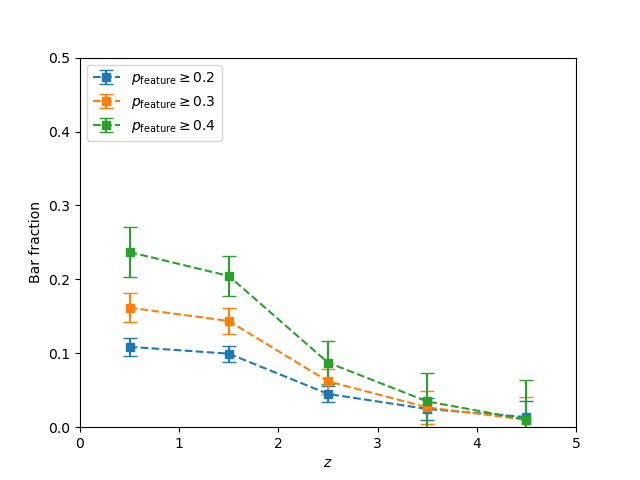
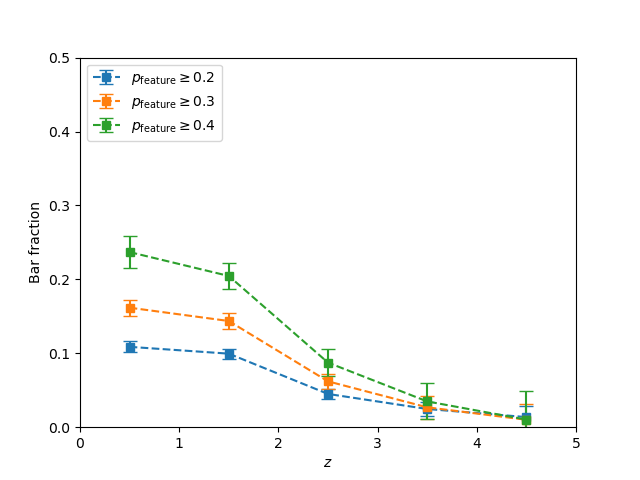
update

diff --git a/bar_estimate/binned_bar_fraction.py b/bar_estimate/binned_bar_fraction.py
@@ -11,7 +11,7 @@ def str2array(string):
     array = np.array([int(num) for num in numbers_str])
     return array
 
-FILTER = 200
+FILTER = 444
 
 N_BINS_z = 5
 bins_z = [0, 1, 2, 3, 4, 5]
@@ -60,7 +60,7 @@ for k in range(3):
                 break
 
 bar_fraction = num_barred_disks / num_disks
-err = np.sqrt(np.sum(bar_fraction*(1-bar_fraction)/num_disks, axis=2)/N_RUNS + np.var(bar_fraction, axis=2))
+err = np.sqrt(np.sum(bar_fraction*(1-bar_fraction)/num_disks, axis=2)/N_RUNS**2 + np.var(bar_fraction, axis=2))
 
 bin_centers = [(bins_z[i] + bins_z[i+1]) / 2 for i in range(N_BINS_z)]
 
@@ -102,7 +102,7 @@ for k in range(3):
                 break
 
 bar_fraction = num_barred_disks / num_disks
-err = np.sqrt(np.sum(bar_fraction*(1-bar_fraction)/num_disks, axis=2)/N_RUNS + np.var(bar_fraction, axis=2))
+err = np.sqrt(np.sum(bar_fraction*(1-bar_fraction)/num_disks, axis=2)/N_RUNS**2 + np.var(bar_fraction, axis=2))
 
 bin_centers = [(bins_z[i] + bins_z[i+1]) / 2 for i in range(N_BINS_z)]
 
@@ -144,7 +144,7 @@ for k in range(3):
                 break
 
 bar_fraction = num_barred_disks / num_disks
-err = np.sqrt(np.sum(bar_fraction*(1-bar_fraction)/num_disks, axis=2)/N_RUNS + np.var(bar_fraction, axis=2))
+err = np.sqrt(np.sum(bar_fraction*(1-bar_fraction)/num_disks, axis=2)/N_RUNS**2 + np.var(bar_fraction, axis=2))
 
 bin_centers = [(bins_M[i] + bins_M[i+1]) / 2 for i in range(N_BINS_M)]
 
@@ -184,7 +184,7 @@ for k in range(3):
                 break
 
 bar_fraction = num_barred_disks / num_disks
-err = np.sqrt(np.sum(bar_fraction*(1-bar_fraction)/num_disks, axis=2)/N_RUNS + np.var(bar_fraction, axis=2))
+err = np.sqrt(np.sum(bar_fraction*(1-bar_fraction)/num_disks, axis=2)/N_RUNS**2 + np.var(bar_fraction, axis=2))
 
 bin_centers = [(bins_M[i] + bins_M[i+1]) / 2 for i in range(N_BINS_M)]
 

diff --git a/bar_estimate/calibrate_bar_fraction.py b/bar_estimate/calibrate_bar_fraction.py
@@ -58,7 +58,7 @@ for k in range(4):
                 break
 
 bar_fraction = num_barred_disks / num_disks
-err = np.sqrt(np.sum(bar_fraction*(1-bar_fraction)/num_disks, axis=2)/N_RUNS + np.var(bar_fraction, axis=2))
+err = np.sqrt(np.sum(bar_fraction*(1-bar_fraction)/num_disks, axis=2)/N_RUNS**2 + np.var(bar_fraction, axis=2))
 
 bin_centers = [(bins_z[i] + bins_z[i+1]) / 2 for i in range(N_BINS_z)]
 
@@ -110,7 +110,7 @@ for k in range(4):
                 break
 
 bar_fraction = num_barred_disks / num_disks
-err = np.sqrt(np.sum(bar_fraction*(1-bar_fraction)/num_disks, axis=2)/N_RUNS + np.var(bar_fraction, axis=2))
+err = np.sqrt(np.sum(bar_fraction*(1-bar_fraction)/num_disks, axis=2)/N_RUNS**2 + np.var(bar_fraction, axis=2))
 
 bin_centers = [(bins_M[i] + bins_M[i+1]) / 2 for i in range(N_BINS_M)]
 
@@ -165,7 +165,7 @@ for i in range(len(result)):
             break
 
 bar_fraction = num_barred_disks / num_disks
-err = np.sqrt(np.sum(bar_fraction*(1-bar_fraction)/num_disks, axis=1)/N_RUNS + np.var(bar_fraction, axis=1))
+err = np.sqrt(np.sum(bar_fraction*(1-bar_fraction)/num_disks, axis=1)/N_RUNS**2 + np.var(bar_fraction, axis=1))
 
 bin_centers = [(bins_mag[i] + bins_mag[i+1]) / 2 for i in range(N_BINS_mag)]
 
